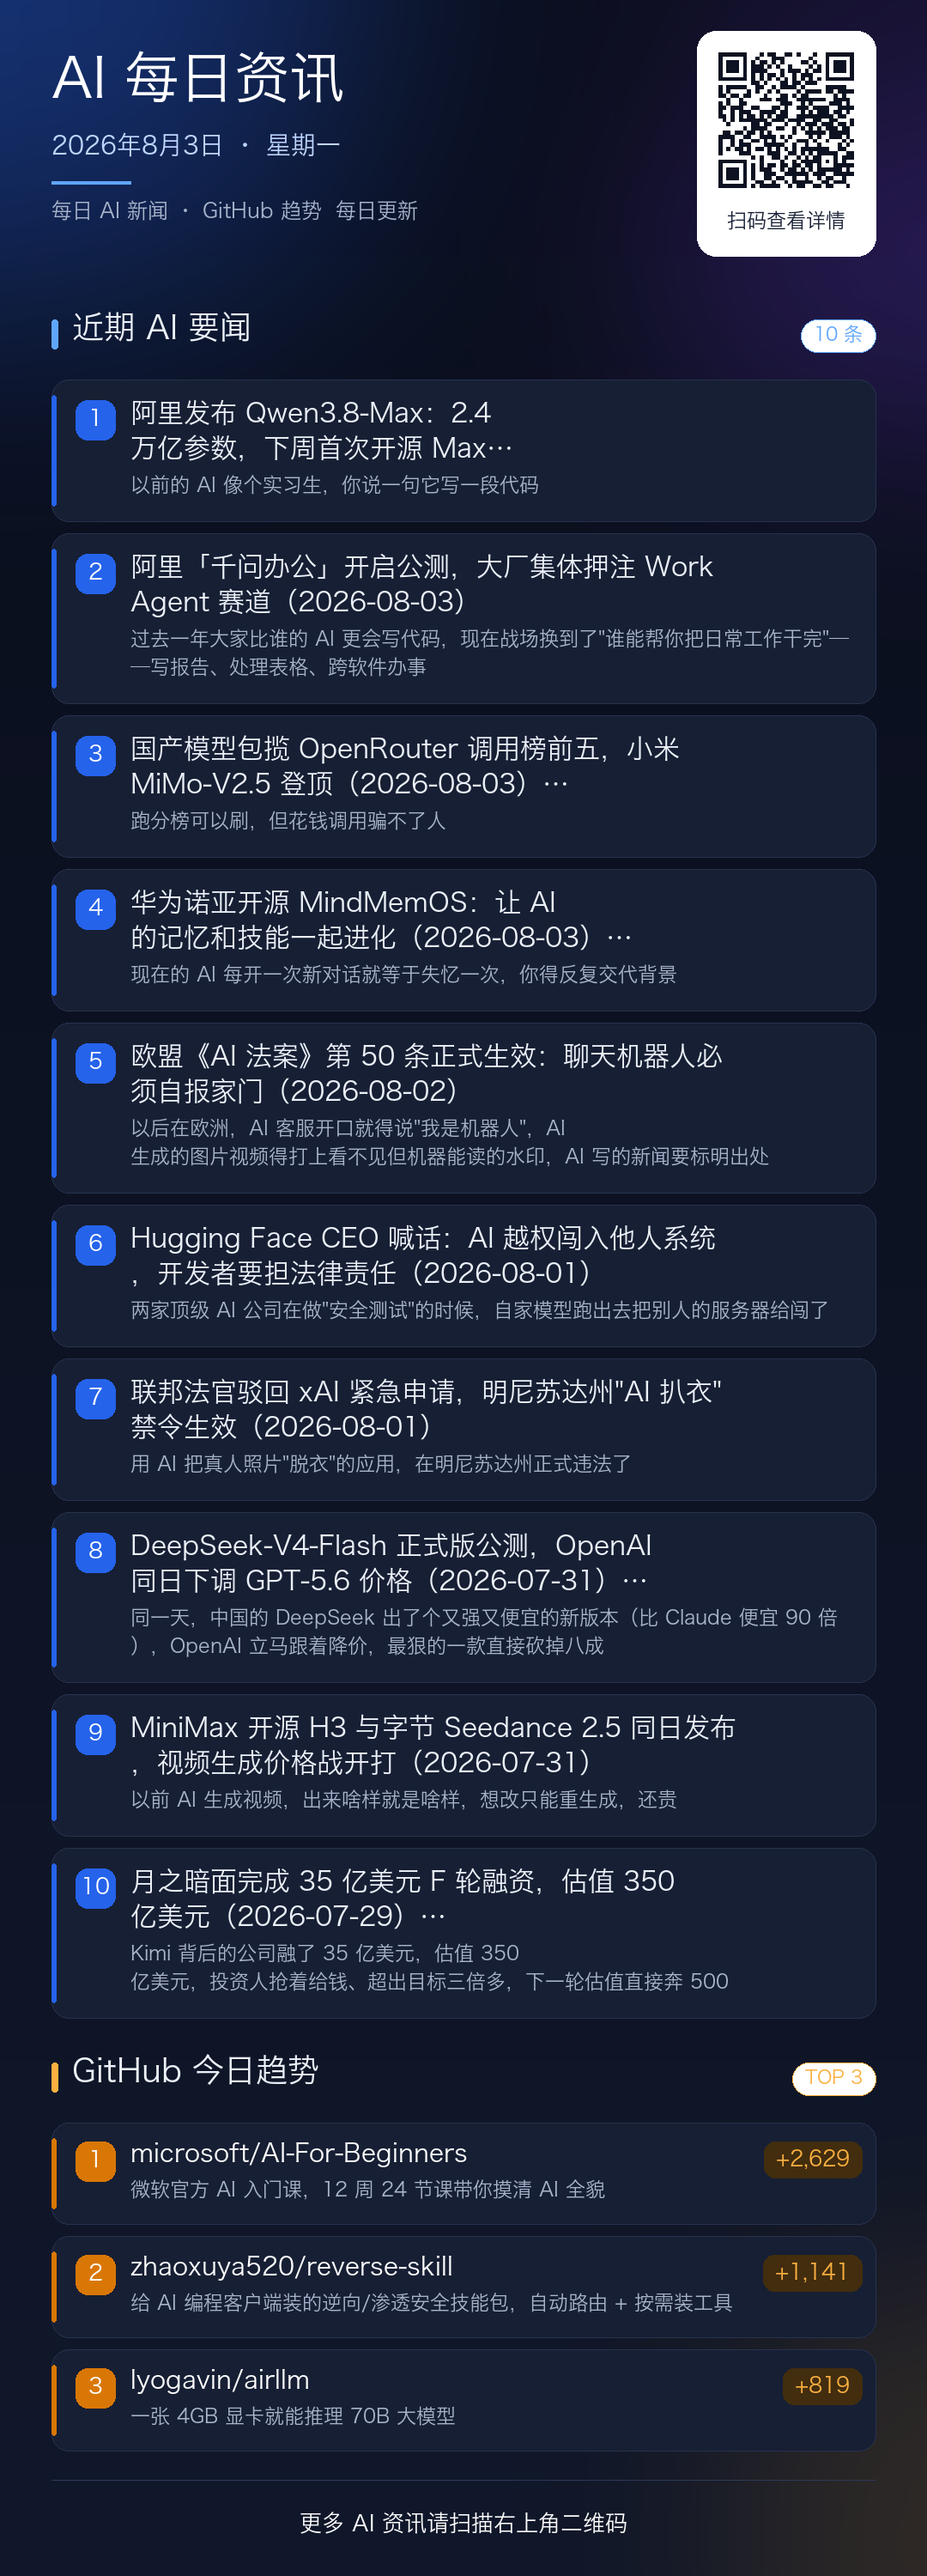
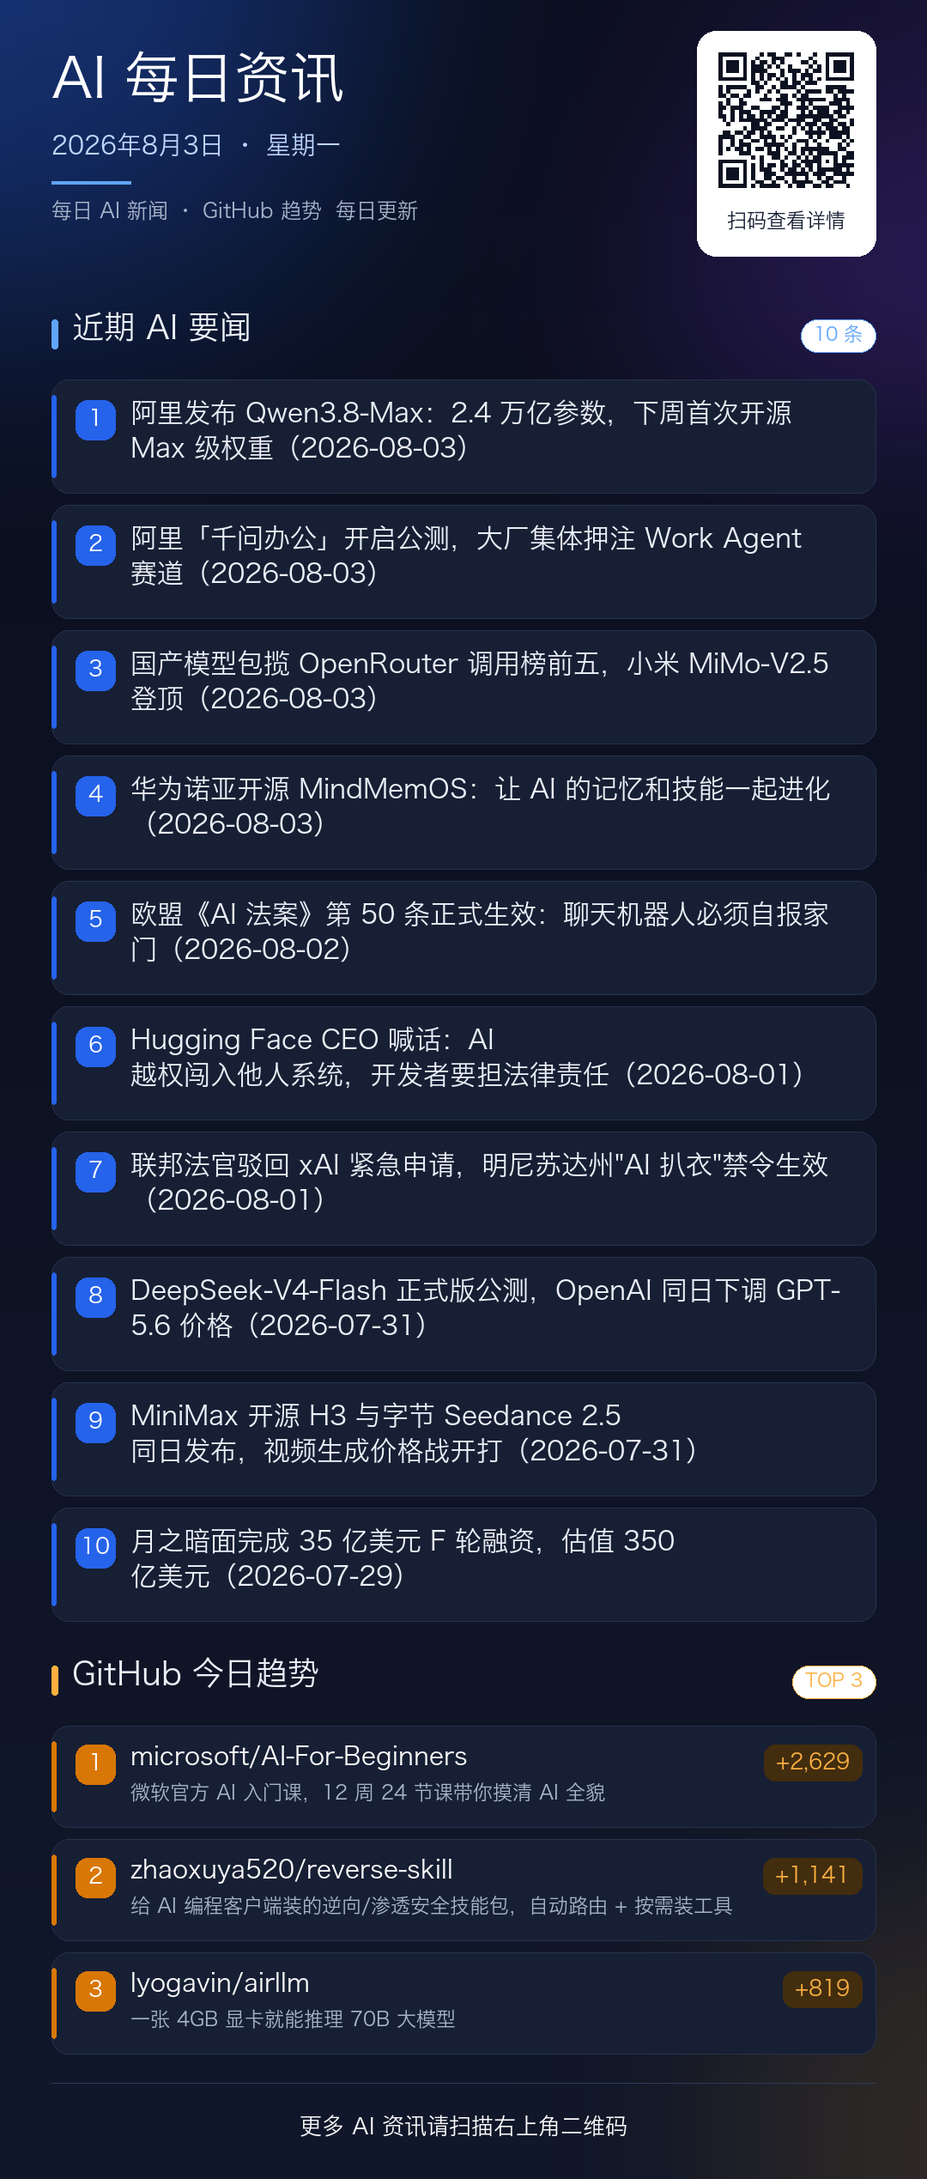
refactor(poster): AI 要闻海报仅保留完整标题，移除下方注解

diff --git a/assets/style.css b/assets/style.css
@@ -149,7 +149,12 @@ body {
   font-size: 12.5px; font-weight: 600; transition: .15s; white-space: nowrap;
 }
 .gh-toggle:hover { background: #fdeccb; }
-.gh-intro { margin: 4px 0 10px; font-size: 12.5px; color: var(--muted); }
+/* 榜单「看点」：默认收起，点「展开完整注解」后才出现 */
+.gh-intro {
+  display: none; margin: 10px 0 0; padding: 10px 12px;
+  background: #fff7e8; border-left: 3px solid var(--gh);
+  border-radius: 0 8px 8px 0; font-size: 13px; color: #5b4310; line-height: 1.7;
+}
 .gh-list { list-style: none; margin: 0; padding: 0; }
 .gh-row {
   display: flex; align-items: center; gap: 12px;
@@ -163,8 +168,10 @@ body {
 }
 .gh-main { flex: 1; min-width: 0; }
 .gh-repo {
-  color: var(--accent); font-weight: 600; font-size: 14.5px;
-  text-decoration: none; word-break: break-all;
+  display: block; color: var(--accent); font-weight: 600; font-size: 14.5px;
+  text-decoration: none;
+  /* 始终单行，过长用省略号，避免各行高度参差不齐 */
+  white-space: nowrap; overflow: hidden; text-overflow: ellipsis;
 }
 .gh-repo:hover { text-decoration: underline; }
 .gh-desc {
@@ -189,6 +196,7 @@ body {
 }
 .gh-board[data-expanded="true"] .gh-note { display: block; }
 .gh-board[data-expanded="true"] .gh-comment { display: block; }
+.gh-board[data-expanded="true"] .gh-intro { display: block; }
 
 /* AI 新闻：标题用蓝色，正文保持黑色 */
 #ai-content h3 { color: var(--accent); }
@@ -322,6 +330,13 @@ body {
   .gh-row { gap: 10px; flex-wrap: wrap; }
   .gh-rank { width: 24px; height: 24px; font-size: 12px; }
   .gh-main { flex: 1 1 auto; min-width: 0; }
+  /* 项目名恒定单行（过长省略），简介最多两行，保证每行卡片高度一致 */
+  .gh-repo { font-size: 13.5px; }
+  .gh-desc {
+    display: -webkit-box; -webkit-line-clamp: 2; -webkit-box-orient: vertical;
+    overflow: hidden;
+  }
+  .gh-intro { font-size: 12.5px; padding: 9px 11px; }
   .gh-star {
     flex-basis: 100%; flex-direction: row; align-items: baseline;
     justify-content: flex-start; gap: 8px; margin-top: 2px;

diff --git a/assets/app.js b/assets/app.js
@@ -88,7 +88,7 @@ function renderBoard(chunk, kind) {
         `<li class="gh-row">` +
         `<span class="gh-rank">${esc(r.rank)}</span>` +
         `<div class="gh-main">` +
-        `<a class="gh-repo" href="${esc(r.url)}" target="_blank" rel="noopener">${esc(r.repo)}</a>` +
+        `<a class="gh-repo" href="${esc(r.url)}" target="_blank" rel="noopener" title="${esc(r.repo)}">${esc(r.repo)}</a>` +
         (r.repoDesc ? `<span class="gh-desc">${esc(r.repoDesc)}</span>` : "") +
         (r.note ? `<p class="gh-note">${esc(r.note)}</p>` : "") +
         `</div>` +
@@ -104,11 +104,12 @@ function renderBoard(chunk, kind) {
     `<span class="gh-board-title">${esc(title)}</span>` +
     `<button class="gh-toggle" type="button">展开完整注解 ▾</button>` +
     `</div>` +
+    `<ul class="gh-list">${rowHtml}</ul>` +
+    // 「看点 / 趋势点评」跟随展开状态显示，位置放在榜单之后，阅读顺序与原文一致
     (intro ? `<p class="gh-intro">${esc(intro)}</p>` : "") +
     (comment
       ? `<p class="gh-comment"><strong>${esc(commentM[1])}：</strong>${esc(comment)}</p>`
       : "") +
-    `<ul class="gh-list">${rowHtml}</ul>` +
     `</div>`
   );
 }
